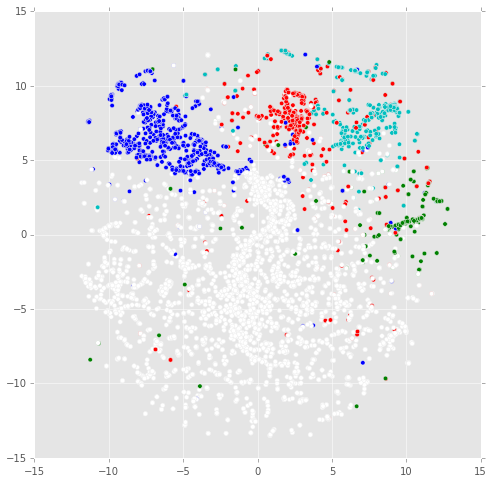
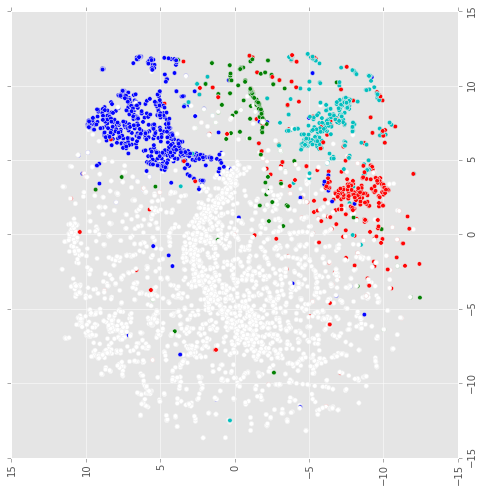
rerun plots with lr = 0.03 and C = 0.001 for both given word vecs and rnd word vecs.

diff --git a/pa4/vis/word_vis.py b/pa4/vis/word_vis.py
@@ -1,9 +1,5 @@
 # -*- coding: utf-8 -*-
-"""
-Created on Sat Nov 28 16:19:40 2015
 
-@author: yyo662
-"""
 import pandas as pd
 from sklearn.manifold import TSNE
 import matplotlib
@@ -49,7 +45,7 @@ tsne_old = tsne.fit_transform(vec_label[xcols])
 plt.scatter(tsne_old[:,0],tsne_old[:,1], c=vec_label.colors)
 
 # read in new vectors after training
-newVec = pd.read_csv('newVectors.txt', sep=' ', header=None)
+newVec = pd.read_csv('newRndVectors.txt', sep=' ', header=None)
 newVec = newVec.iloc[:, :-1]
 
 new_vec_label = vocab_index.join(newVec)
@@ -60,3 +56,52 @@ tsne = TSNE(random_state=37153)
 tsne_new = tsne.fit_transform(new_vec_label[xcols])
 plt.scatter(tsne_new[:,0],tsne_new[:,1], c=new_vec_label.colors)
 
+flag_no = (tsne_new[:,0] < 0) & (tsne_new[:,1] > 0) & (new_vec_label.colors != 'w')
+vec_label.ix[flag_no,['word','colors']].values
+'''
+Vectors
+array([['and', 'r'],
+       ['in', 'r'],
+       ['in', 'r'],
+       ['for', 'r'],
+       ['as', 'r'],
+       ['on', 'g'],
+       ["'s", 'r'],
+       [':', 'g'],
+       ['said', 'b'],
+       ['man', 'b'],
+       ['across', 'r'],
+       ['mother', 'b'],
+       ['ca', 'c'],
+       ['centers', 'r'],
+       ['jan', 'b'],
+       ['ally', 'b'],
+       ['sterling', 'b'],
+       ['f.a.', 'g']], dtype=object)
+'''
+flag_no = (tsne_new[:,0] >0) & (tsne_new[:,1] < -2) & (new_vec_label.colors != 'w')
+vec_label.ix[flag_no,['word','colors']].values
+
+'''
+rndVectors
+array([['the', 'r'],
+       ['the', 'c'],
+       ['the', 'b'],
+       ['in', 'r'],
+       ['in', 'r'],
+       ['on', 'g'],
+       ['two', 'r'],
+       ['school', 'c'],
+       ['play', 'g'],
+       ['per', 'b'],
+       ['foreign', 'r'],
+       ['miles', 'b'],
+       ['key', 'b'],
+       ['spring', 'b'],
+       ['price', 'b'],
+       ['criminal', 'r'],
+       ['champions', 'g'],
+       ['centers', 'r'],
+       ['add', 'r'],
+       ['erickson', 'b']], dtype=object)
+'''
